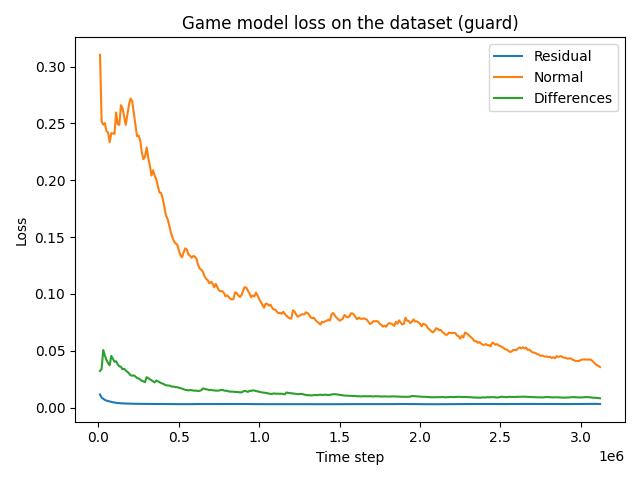
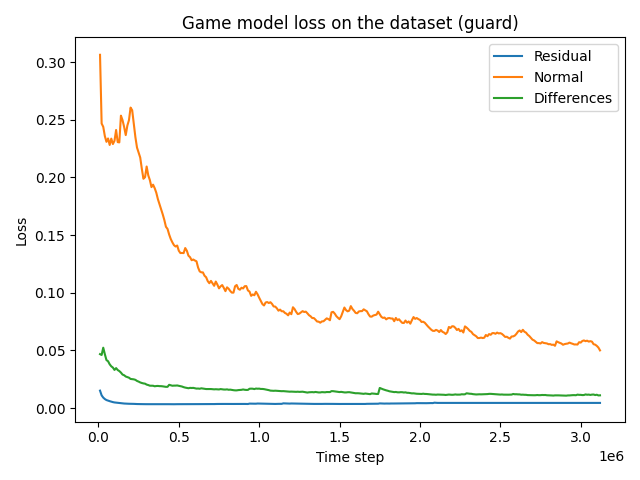
Fixed reaction time scripts, new results

diff --git a/scripts/evaluation/data_collectors.py b/scripts/evaluation/data_collectors.py
@@ -3,6 +3,8 @@ import pandas as pd
 import multiprocessing as mp
 import shutil
 import json
+import inspect
+from models import to_
 from datetime import datetime
 from typing import Sequence, Mapping, Any
 from agents.base import FootsiesAgentBase
@@ -15,7 +17,7 @@ from os import path
 from scripts.evaluation.custom_loop import Observer, custom_loop, dataset_run, AgentCustomRun
 from functools import partial, reduce
 from main import main, save_agent
-from dataclasses import replace
+from dataclasses import replace, asdict
 
 
 # Wrapper on custom_loop
@@ -199,13 +201,65 @@ def all_eval_trained() -> dict[str, dict[str, Any]]:
     return res
 
 
-def get_similar_agent_run(args: MainArgs) -> str | None:
-    for run, run_args in all_eval_trained().items():
-        agent_args = run_args["agent"]["kwargs"]
-        args.agent.kwargs
+def is_default(signature: inspect.Signature, argument: str, value: Any) -> bool:
+    return signature.parameters[argument].default == value
 
-        return None
-        return run
+
+def get_similar_agent_run(args: MainArgs) -> str | None:
+    if args.agent.model != "to":
+        raise ValueError("this method only supports the 'to' model")
+
+    tosig = inspect.signature(to_)
+    args_dict = asdict(args)
+
+    for run, run_args in all_eval_trained().items():
+        # We only want the_one runs
+        if run_args["agent"]["model"] != "to":
+            continue
+
+        agent_args: dict[str, Any] = run_args["agent"]["kwargs"]
+
+        # Check if the agent arguments are essentially the same.
+        # Basically, they either need to be equal, or the defined value needs to be the default.
+        all_keys = agent_args.keys() | args.agent.kwargs.keys()
+        all_match = True
+        for key in all_keys:
+            if key in args.agent.kwargs:
+                this_value = args.agent.kwargs[key]
+
+                if key in agent_args:
+                    other_value = agent_args[key]
+
+                    if this_value == other_value:
+                        continue
+                
+                else:
+                    if is_default(tosig, key, this_value):
+                        continue
+                        
+            else:
+                other_value = agent_args[key]
+
+                if is_default(tosig, key, other_value):
+                    continue
+
+            all_match = False
+            break
+
+        if not all_match:
+            continue
+
+        # Ignore all other arguments that don't matter
+        run_args["agent"]["kwargs"] = args_dict["agent"]["kwargs"]
+        run_args["agent"]["name_"] = args_dict["agent"]["name_"]
+        run_args["env"]["kwargs"].pop("game_port")
+        run_args["env"]["kwargs"].pop("opponent_port")
+        run_args["env"]["kwargs"].pop("remote_control_port")
+        run_args["progress_bar_kwargs"] = args_dict["progress_bar_kwargs"]
+
+        # Now, check if all arguments are the same
+        if run_args == args_dict:
+            return run
 
     return None
 
@@ -224,6 +278,7 @@ def get_data(data: str, runs: dict[str, MainArgs], seeds: int = 10, processes: i
                 # If so, copy the results.
                 similar_run = get_similar_agent_run(main_args)
                 if similar_run is not None:
+                    print(f"Found a similar run for '{run_fullname}': '{similar_run}', will copy its results")
                     similar_data_path = path.join("runs", similar_run)
                     shutil.copytree(similar_data_path, data_path)
                     continue

diff --git a/scripts/evaluation/s/transfer_learning.py b/scripts/evaluation/s/transfer_learning.py
@@ -3,7 +3,7 @@ from agents.ql.ql import QFunctionNetwork
 from models import to_
 from copy import deepcopy
 from os import path
-from scripts.evaluation.utils import create_eval_env, quick_train_args, quick_agent_args
+from scripts.evaluation.utils import create_eval_env, quick_env_args, quick_train_args, quick_agent_args
 from scripts.evaluation.custom_loop import WinRateObserver, AgentCustomRun
 from scripts.evaluation.plotting import plot_data
 from scripts.evaluation.data_collectors import get_data_custom_loop
@@ -18,7 +18,7 @@ OPPONENT = "curriculum_PT"
 
 def main(seeds: int | None = None, timesteps: int = int(1e6), processes: int = 12, y: bool = False):
     if seeds is None:
-        seeds = 2
+        seeds = 3
     
     result_path = path.splitext(__file__)[0]
 
@@ -76,10 +76,11 @@ def main(seeds: int | None = None, timesteps: int = int(1e6), processes: int = 1
     opponent_agent, _ = import_agent("to", dummy_env, opponent_agent_parameters)
     opponent = opponent_agent.extract_opponent(dummy_env)
 
+    env_args = quick_env_args(kwargs={"dense_reward": True})
     runs = {
-        "control": AgentCustomRun(agent_control, opponent.act),
-        "initted (expected)": AgentCustomRun(agent_initted_expected, opponent.act),
-        "initted (greedy)": AgentCustomRun(agent_initted_greedy, opponent.act),
+        "control": AgentCustomRun(agent_control, opponent.act, env_args=env_args),
+        "initted (expected)": AgentCustomRun(agent_initted_expected, opponent.act, env_args=env_args),
+        "initted (greedy)": AgentCustomRun(agent_initted_greedy, opponent.act, env_args=env_args),
     }
 
     dfs = get_data_custom_loop(result_path, runs, WinRateObserver, 

diff --git a/scripts/evaluation/s/baseline_compare.py b/scripts/evaluation/s/baseline_compare.py
@@ -2,6 +2,7 @@ from os import path
 from scripts.evaluation.data_collectors import get_data_custom_loop
 from scripts.evaluation.plotting import plot_data
 from scripts.evaluation.custom_loop import WinRateObserver, AgentCustomRun
+from scripts.evaluation.utils import quick_env_args
 from typing import Any, Callable
 from scripts.tuning.sb3_a2c import create_model_from_parameters as create_a2c_with_parameters
 from scripts.tuning.sb3_dqn import create_model_from_parameters as create_dqn_with_parameters
@@ -48,9 +49,11 @@ def main(seeds: int | None = None, timesteps: int = int(1e6), processes: int = 1
         "dqn": partial(create_dqn_with_parameters, **get_best_params("sb3_dqn")),
     }
 
+    env_args = quick_env_args(kwargs={"dense_reward": True})
     runs = {k: AgentCustomRun(
         agent=agent_initializer,
         opponent=None,
+        env_args=env_args,
     ) for k, agent_initializer in runs_raw.items()}
 
     dfs = get_data_custom_loop(

diff --git a/scripts/evaluation/s/self_play.py b/scripts/evaluation/s/self_play.py
@@ -26,6 +26,9 @@ def main(seeds: int | None = None, timesteps: int = int(3e6), processes: int = 1
                     evaluate_every=100,
                 ),
                 wrapper_time_limit=1000,
+                kwargs={
+                    "dense_reward": True,
+                }
             ),
             timesteps=timesteps,
         )
@@ -80,6 +83,7 @@ def main(seeds: int | None = None, timesteps: int = int(3e6), processes: int = 1
         seeds=seeds,
         processes=processes,
         y=y,
+        pre_trained="curriculum_PT",
     )
 
     if dfs is None:
@@ -103,6 +107,7 @@ def main(seeds: int | None = None, timesteps: int = int(3e6), processes: int = 1
         seeds=seeds,
         processes=processes,
         y=y,
+        pre_trained="curriculum_PT",
     )
 
     if dfs is None:

diff --git a/scripts/evaluation/s/softmax.py b/scripts/evaluation/s/softmax.py
@@ -106,7 +106,10 @@ def main(seeds: int | None = None, timesteps: int = int(1e6), processes: int = 1
             curriculum=CurriculumArgs(
                 enabled=True,
                 episode_threshold=1000,
-            )
+            ),
+            kwargs={
+                "dense_reward": True,
+            }
         ),
         timesteps=timesteps,
     ) for k, v in runs_raw.items()}

diff --git a/scripts/evaluation/utils.py b/scripts/evaluation/utils.py
@@ -64,7 +64,7 @@ def quick_env_args(**kwargs) -> EnvArgs:
 
     inner_kwargs = {
         "game_path": "../Footsies-Gym/Build/FOOTSIES.x86_64",
-        "dense_reward": True,
+        "dense_reward": False,
         # "render_mode": "human",
         "sync_mode": "synced_non_blocking",
     }
